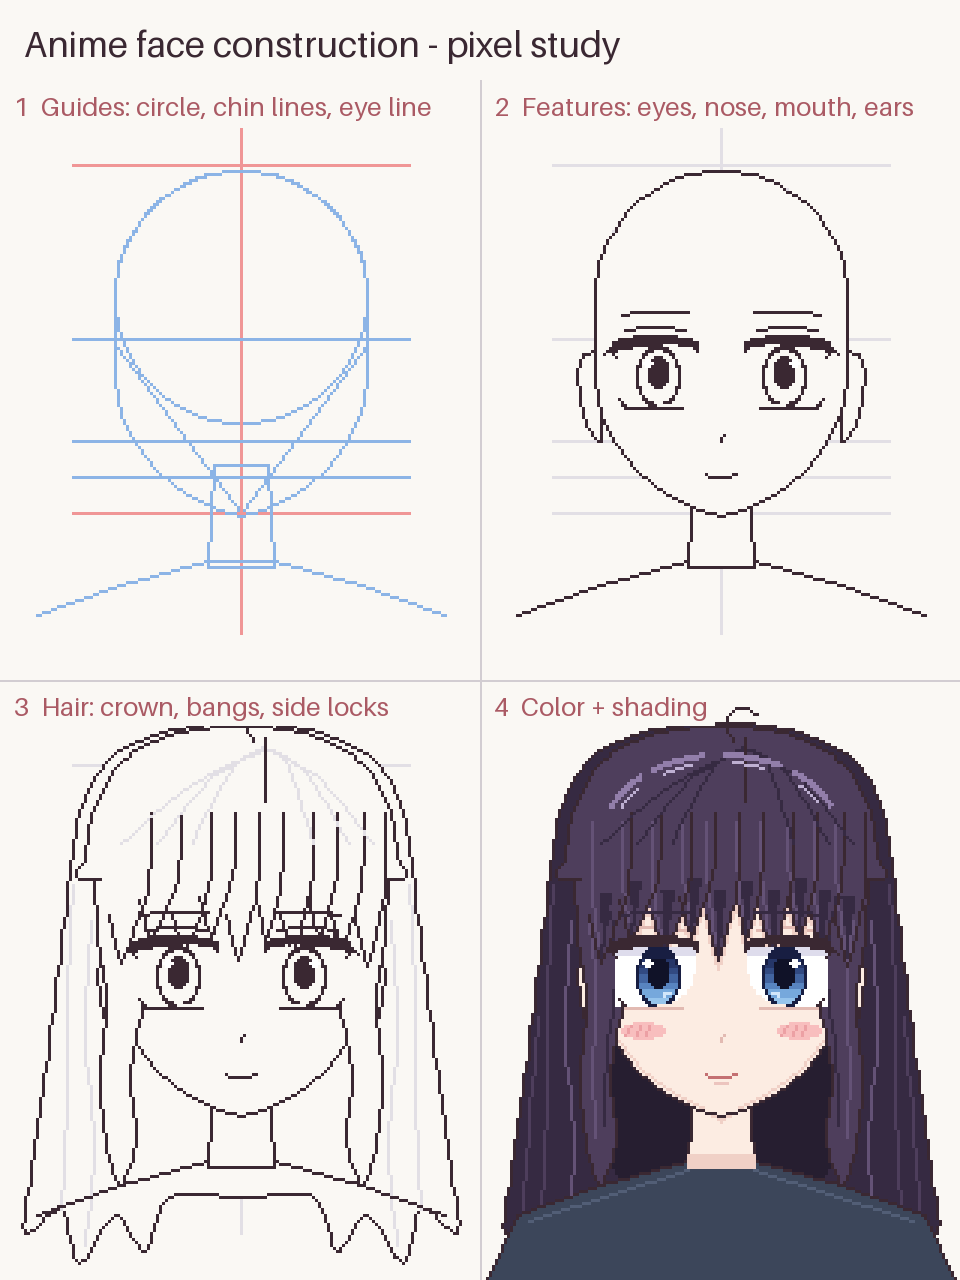
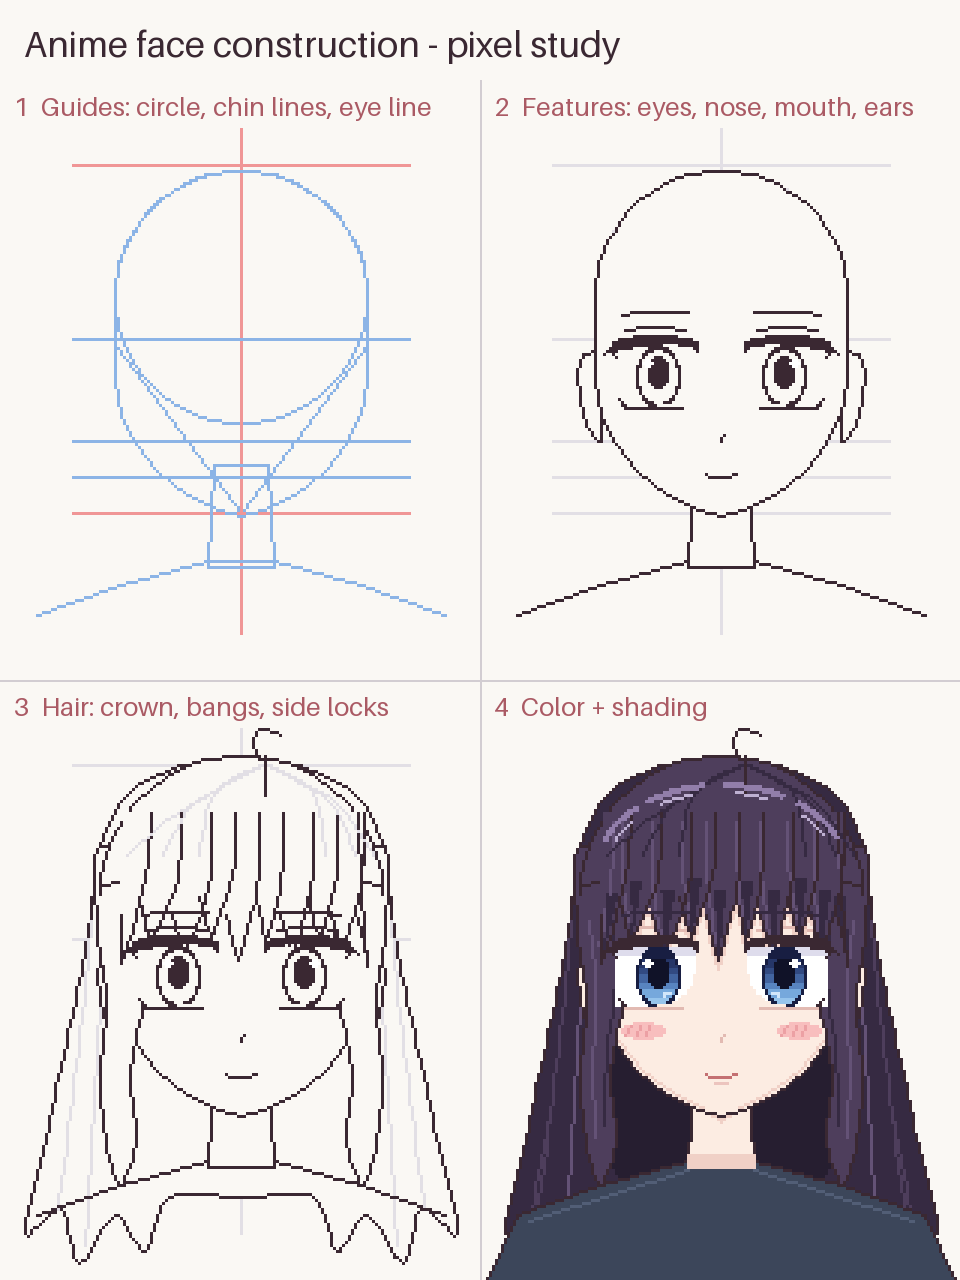
Face study: hair top follows the skull for a natural silhouette
Claude-Session: https://claude.ai/code/session_0155yoUibrhMAmrpcv8V9b9L

Changed region(s): [[0.5312, 0.5625, 1.0, 0.9375], [0.0312, 0.5625, 0.5, 0.9688], [0.0, 0.9375, 0.0312, 0.9688]]

diff --git a/draw_face_study.py b/draw_face_study.py
@@ -86,17 +86,18 @@ def smooth(ctrl, n=8, closed=True):
 
 
 # Long back hair: smooth, full volume, ending in a few big soft clumps
-BACK_HAIR = smooth([(40, 7), (53, 8.5), (62, 13), (67, 22), (69, 36), (71, 52), (73, 68), (75, 82),
+BACK_HAIR = smooth([(40, 13), (51, 14.5), (59, 19), (63.5, 27), (65, 38), (67, 50), (70, 64), (73, 78),
                     (76, 92), (70, 88), (67, 97), (61, 89), (56, 95), (52, 86), (40, 86),
                     (28, 86), (24, 95), (19, 89), (13, 97), (10, 88), (4, 92),
-                    (5, 82), (7, 68), (9, 52), (11, 36), (13, 22), (18, 13), (27, 8.5)])
+                    (7, 78), (10, 64), (13, 50), (15, 38), (16.5, 27), (21, 19), (29, 14.5)])
 # Volume crown: smooth dome a bit wider than the skull
-CROWN = smooth([(40, 7.5), (52, 9), (60, 13.5), (64.5, 21), (66, 29), (65.5, 33), (40, 30), (14.5, 33),
-                (14, 29), (15.5, 21), (20, 13.5), (28, 9)])
+# hair hugging the cranium circle (centre 40,36 r 21) with ~2.5px of thickness
+CROWN = [(40 + 23.5 * math.cos(math.radians(a)), 35.5 + 23 * math.sin(math.radians(a)))
+         for a in range(180, 361, 4)] + [(63.5, 34), (40, 31), (16.5, 34)]
 # Bangs: soft curved clumps (root_l, root_r, tip_x, tip_y), part slightly right of centre
-BANGS = [(17, 25, 20, 47), (22, 30, 25, 43), (27, 35, 30.5, 46), (32, 39, 35, 42.5),
+BANGS = [(20.5, 25, 20, 47), (22, 30, 25, 43), (27, 35, 30.5, 46), (32, 39, 35, 42.5),
          (36, 43, 39.5, 46.5), (41, 47, 44, 43), (45, 52, 48.5, 46), (49.5, 56, 53, 42.5),
-         (54, 60.5, 56.5, 46), (57.5, 64, 61, 47.5)]
+         (54, 60.5, 56.5, 46), (57.5, 59.5, 61, 47.5)]
 # Side locks: gentle S-curve that frames the face and flips softly at the end
 SIDE_L = smooth([(16, 28), (22, 31), (24.5, 42), (23.5, 54), (21.5, 66), (22.5, 76), (20, 84),
                  (17.5, 77), (16.5, 66), (17.5, 54), (16, 42)])
@@ -234,7 +235,7 @@ def hair_front(pen, step):
     pen.poly(SIDE_L, fill=hf, outline=LINE)
     pen.poly(SIDE_R, fill=hf, outline=LINE)
     pen.poly(CROWN, fill=hf, outline=LINE)
-    pen.poly([(16, 21), (64, 21), (65, 30), (15, 30)], fill=hf)
+    pen.poly([(20.5, 25), (59.5, 25), (63, 32), (17, 32)], fill=hf)
     for c in BANGS:
         pen.poly(clump(*c), fill=hf)
     if color:
@@ -257,14 +258,16 @@ def hair_front(pen, step):
         pen.line(pts[len(pts) // 3:], fill=LINE)
     # strand flow from the part, curving with the dome
     flow = HAIR_SHADE if color else GUIDE_FAINT
-    for x in (20, 26, 32, 52, 58, 62):
-        pen.line(smooth([(44, 11), ((44 + x) / 2, 13.5 + abs(x - 44) * 0.15), (x, 27)], n=6, closed=False), fill=flow)
-    pen.line([(44, 9.5), (44, 20)], fill=LINE)
-    pen.line(smooth([(42, 10), (41, 6.5), (43, 4.5), (46, 5.5)], n=5, closed=False), fill=LINE)   # ahoge
+    for x in (21, 27, 33, 54, 59, 62):
+        side = -1 if x < 44 else 1
+        mid = (44 + side * 6 + x) / 2
+        pen.line(smooth([(44 + side * 0.5, 14), (mid, 16 + abs(x - 44) * 0.25), (x, 29)], n=6, closed=False), fill=flow)
+    pen.line([(44, 12.5), (44, 19)], fill=LINE)          # the part
+    pen.line(smooth([(43, 13), (42, 10), (43.5, 8), (46.5, 8.8)], n=5, closed=False), fill=LINE)   # ahoge
     if color:
         # angel-ring shine, broken into soft strands that follow the dome
-        box = pen.P([(20, 12), (60, 40)])
-        box2 = pen.P([(21.5, 13.5), (58.5, 40)])
+        box = pen.P([(19, 17), (61, 46)])
+        box2 = pen.P([(20.5, 18.5), (59.5, 46)])
         for a0, a1 in ((200, 228), (234, 262), (272, 300), (308, 338)):
             pen.d.arc((box[0][0], box[0][1], box[1][0], box[1][1]), a0, a1, fill=HAIR_HI, width=2)
             pen.d.arc((box2[0][0], box2[0][1], box2[1][0], box2[1][1]), a0 + 5, a1 - 7, fill=HAIR_SHINE)
@@ -284,8 +287,8 @@ def panel(img, ox, oy, step):
     # back hair + clothes
     if step >= 3:
         pen.poly(BACK_HAIR, fill=HAIR_SHADE if color else BG, outline=LINE)
-        strands = ([(12, 34), (11, 52), (11, 70), (10, 88)], [(15, 40), (14, 60), (15.5, 78), (14, 94)],
-                   [(9.5, 56), (8, 74), (7, 88)], [(18.5, 60), (19, 76), (20, 92)])
+        strands = ([(15, 40), (13.5, 56), (11.5, 72), (9.5, 88)], [(17.5, 46), (16, 62), (15, 78), (14, 94)],
+                   [(13, 60), (11, 75), (8.5, 88)], [(19, 62), (19, 78), (20, 92)])
         if color:
             pen.poly(smooth([(22, 56), (58, 56), (55, 86), (25, 86)], n=4), fill=HAIR_DEEP)
             for k, pts in enumerate(strands):
